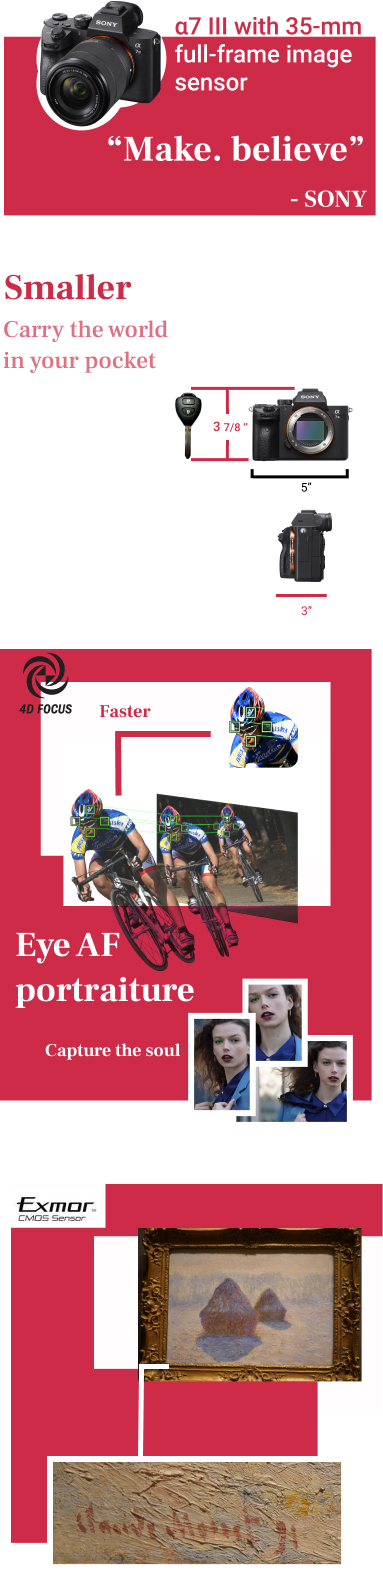
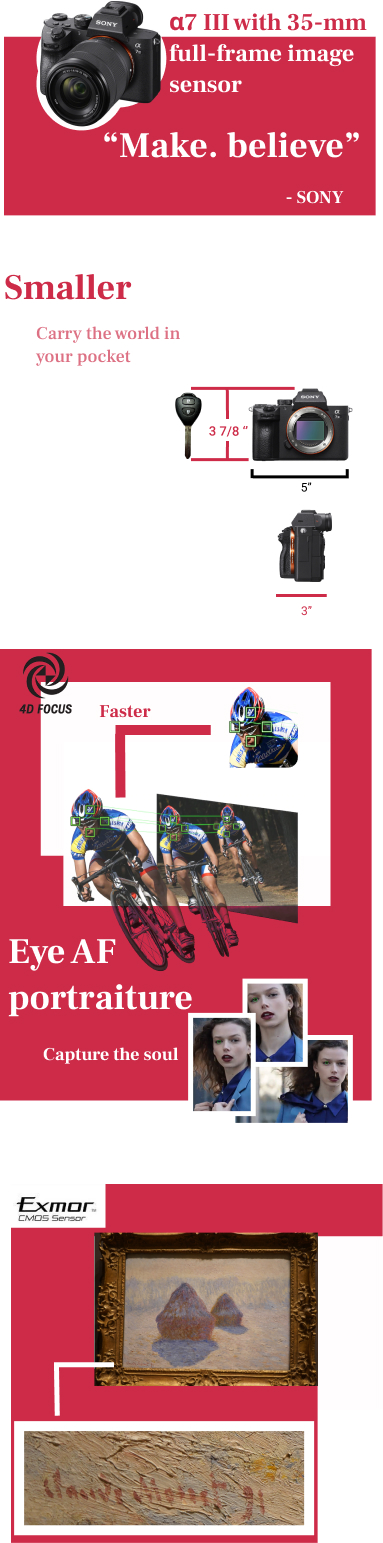
adjusted positions

diff --git a/style.css b/style.css
@@ -111,8 +111,8 @@ button:hover{
     margin-top: 100px;
     z-index: 0;
     padding-bottom: 150px;
-    grid-column-start: 2;
-    grid-column-end: 6;
+    grid-column-start: 3;
+    grid-column-end: 5;
     align-self: center;
     justify-content: center;
     max-width: 100%;
@@ -122,7 +122,7 @@ button:hover{
     margin-top: 100px;
     z-index: -1;
     grid-column-start: 3;
-    grid-column-end: 5;
+    grid-column-end: 6;
     grid-row-start: 1;
     grid-row-end: 1;
     align-self: center;
@@ -133,7 +133,7 @@ button:hover{
   .side_view{
     z-index: 1;
     grid-column-start: 4;
-    grid-column-end: 4;
+    grid-column-end: 5;
     grid-row-start: 2;
     grid-row-end: 2;
     align-self: center;
@@ -145,10 +145,11 @@ button:hover{
   .faster{
     z-index: 0;
     /* padding-top: 150px; */
-    grid-column-start: 2;
+    grid-column-start: 3;
     grid-column-end: 6;
     align-self: center;
-    justify-content: center;
+    position: relative;
+
     max-width: 100%;
   }
 
@@ -164,12 +165,15 @@ button:hover{
 
   /* smaller */
   h2{
-    text-indent: 6em;
+    /* text-indent: 6em; */
     font-family: 'Frank Ruhl Libre', sans-serif;
     color: rgb(205,43,72);
     display: inline-block;
+    grid-column-start: 3;
+    grid-column-end: 4;
     grid-row-start: 1;
     grid-row-end: 1;
+    margin-top:-50px;
   }
 
 /* carry the world */
@@ -177,13 +181,14 @@ button:hover{
     line-height: 1.5;
     font-family: 'Frank Ruhl Libre', sans-serif;
     color: rgb(205,43,72,67%);
-    display: inline;
+    display: inline block;
     align-self: stretch;
-    grid-column-start: 1;
+    grid-column-start: 3;
     grid-column-end: 3;
     grid-row-start: 2;
     grid-row-end: 3;
-    margin-left: 250px;
+    margin-left: 50px;
+    margin-top: 200px;
   }
 
   h3{
@@ -212,59 +217,38 @@ button:hover{
   display: inline-block;
 }
 
-.container .box .imageBox{
+.container .box .imagebox{
   position: relative;
-  overflow: hidden;
+  /* overflow: hidden; */
 }
 
-.container .box .imageBox img{
+.container .box .imagebox img{
   max-width: 100%;
   transition: transform:2s;
 }
 
-.container .box: hover .imageBox img{
+.imagebox img: hover{
   transform: scale(1.5);
 }
 
-/* for text inside container */
-.container .box .details{
-  position:absolute;
-  top:10px;
-  left: 10px;
-  bottom: 10px;
-  background: rgb(0,0,0,60%);
-  transform: scaleY(0);
-  transition: transform .5s;
-}
-
-.container .box .details .content{
-  position: absolute;
-  top:50%;
-  transform: translateY(-50%);
-  text-align: center;
-  padding:15px;
-  color: black;
-}
-.container .box .details .content h4{
-  font-family: 'Frank Ruhl Libre', sans-serif;
-  color: rgb(205,43,72);
-}
-.container .box: hover .details{
-  transform: scaleY(1);
-}
 
 input[type="file"]{
   display: none;
 }
+
+/* upload button */
 label{
   color = var(--red);
+  width:300px;
+  height: 360px;
 }
+
 .upload{
-  z-index: 10;
-  align-self:  center;
+  z-index: 20;
+  align-self: end;
   justify-content: center;
-  margin-top: -400px;
-  margin-left: 300px;
+  margin-top:10px;
+  margin-left: 10px;
   position: relative;
 }
 h5{
@@ -274,10 +258,9 @@ h5{
   align-self: flex-end;
   position: relative;
 }
+
 .camera_mobile{
   display: none;
-}
-
 }
 
 /* mobile screen */
@@ -412,13 +395,16 @@ input[type="file"]{
 }
 label{
   color = var(--red);
+  width:300px;
+  height: 360px;
 }
+
 .upload{
-  z-index: 10;
-  align-self:  center;
+  z-index: 20;
+  align-self: end;
   justify-content: center;
-  margin-top: -400px;
-  margin-left: 300px;
+  margin-top:10px;
+  margin-left: 10px;
   position: relative;
 }
 h5{

diff --git a/index.html b/index.html
@@ -33,7 +33,7 @@
       <div class="grid">
 
         <img
-          src= "camera_and_background.svg"
+          src= "camera_desktop.svg"
           class="camera"
           alt="camera">
 
@@ -82,54 +82,36 @@
       <h1 id= "blogs">blogs</h1>
 
       <div class="box">
-          <div class="imageBox">
-
+          <div class="imagebox">
             <img src="building.JPG" alt="building">
           </div>
-          <div class="details">
+          <!-- <div class="details">
               <div class="content">
                 <h4>#WorldTradeCenter##Life##Nyc#</h4>
               </div>
-          </div>
-
-    </div>
+          </div> -->
+      </div>
 
 
 
 
           <div class="box">
-              <div class="imageBox">
+              <div class="imagebox">
                 <img src="flower.jpg" alt="flower">
               </div>
-              <div class="details">
-                  <div class="content">
-                    <h4>#WorldTradeCenter##Life##Nyc#</h4>
-                  </div>
-              </div>
-            </div>
+          </div>
 
-            <div class="box">
-                <div class="imageBox">
+
+
+
                   <!-- upload button design -->
                   <input type="file" id="file" accept="image/*">
-                  <label for="file">
-                    <img src="upload.JPG" class=upload alt="upload image">
-                    <h5>share your photo<h5>
-                  </label>
-
-                </div>
-
-                <div class="details">
-                    <div class="content">
-                      <h4>#upload image#</h4>
-                    </div>
-                </div>
-
-            </div>
+                    <label for="file">
+                      <img src="upload.jpg" class=upload alt="upload image">
+                    </label>
 
 
-
-</div>
+      </div>
 
   </body>
 
